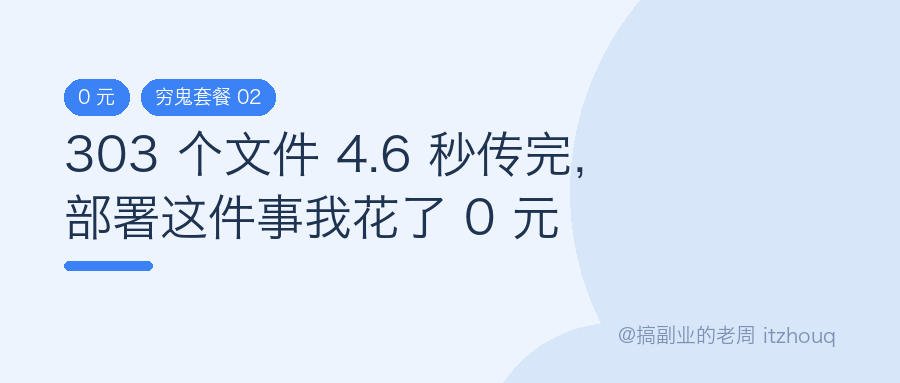
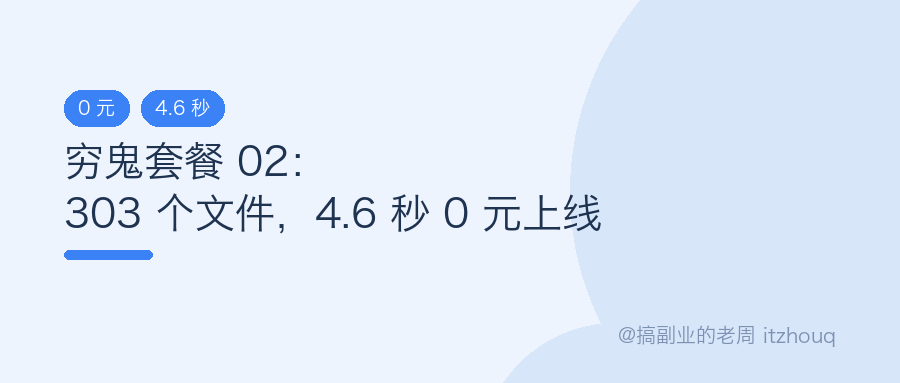
draft: 穷鬼套餐 02 标题加系列前缀，封面重生成；去掉控制台截图

Changed region(s): [[0.0622, 0.201, 0.6844, 0.718]]

diff --git a/content/posts/cloudflare-free-series-02-deploy.md b/content/posts/cloudflare-free-series-02-deploy.md
@@ -1,10 +1,10 @@
 ---
-title: 303 个文件 4.6 秒传完，部署这件事我花了 0 元
+title: 穷鬼套餐 02：303 个文件，4.6 秒 0 元上线
 date: 2026-10-20
 tags: [独立开发, Cloudflare, 部署, 穷鬼套餐, AI]
 draft: true
 summary: 写完的东西往哪放？Cloudflare Pages 两条部署路：Git 连接和 wrangler 直传。创建项目前就要选对，因为官方明说了不能互转。这篇用我自己博客的真实部署数据，把两条路一次讲透，附免费额度账本和踩坑清单。
-x_hooks: [写完就上线：两条路把静态站送上全球 CDN，一分钱不花]
+x_hooks: [穷鬼套餐 02：两条路把静态站送上全球 CDN，一分钱不花]
 ---
 
 上一篇[穷鬼套餐开篇](/blog/cloudflare-free-series-01-map)发出去之后，公众号后台收到最多的一个问题不是"免费额度够不够"，而是：**我写完了，到底怎么放上去？**
@@ -45,10 +45,6 @@ Pages 上线一个静态站，只有两条路：
 - **Framework preset（框架预设）**：选了框架它会自动帮你填好另外两项。不确定就选 None 手动填。
 - **Build command（构建命令）**：你的框架怎么打包就填什么，比如 Next.js 静态导出是 `npx @cloudflare/next-on-pages`，纯静态页留空。
 - **Build output directory（输出目录）**：构建产物在哪个文件夹，比如 `out`、`dist`、`public`。**这个字段配错是新手报错第一名**——提示找不到输出目录，八成是路径写错了。
-
-![实测截图：Cloudflare 控制台创建应用界面，Continue with GitHub 即 Git 集成入口，Upload your static files 即直传入口](/images/cloudflare-free-series-02/git-integration-connect.png)
-
-这张图正好把两条路的入口拍在了一起：**Continue with GitHub** 是 Git 集成，**Upload your static files** 是直传（拖拽）。值得注意的是界面底部那句"需要使用旧版 Pages 工作流？"——新版控制台正在把入口往 Workers 收，再次印证上一节说的演进方向。
 
 两个进阶配置记一下：
 
